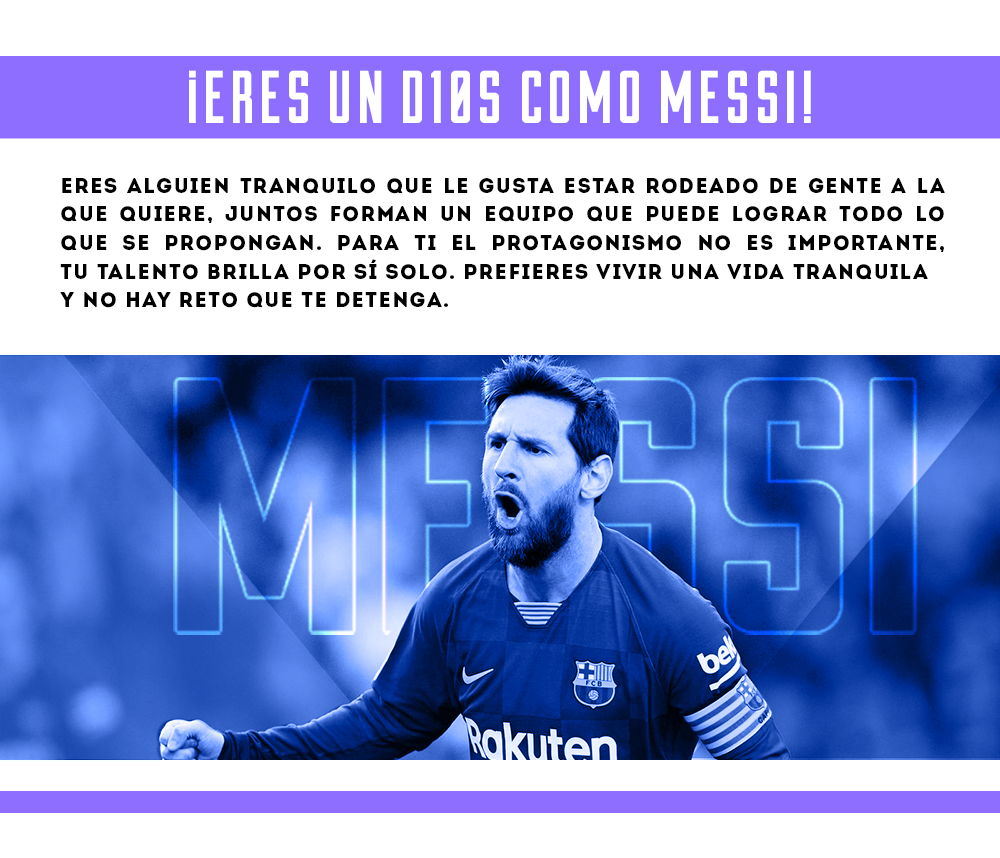
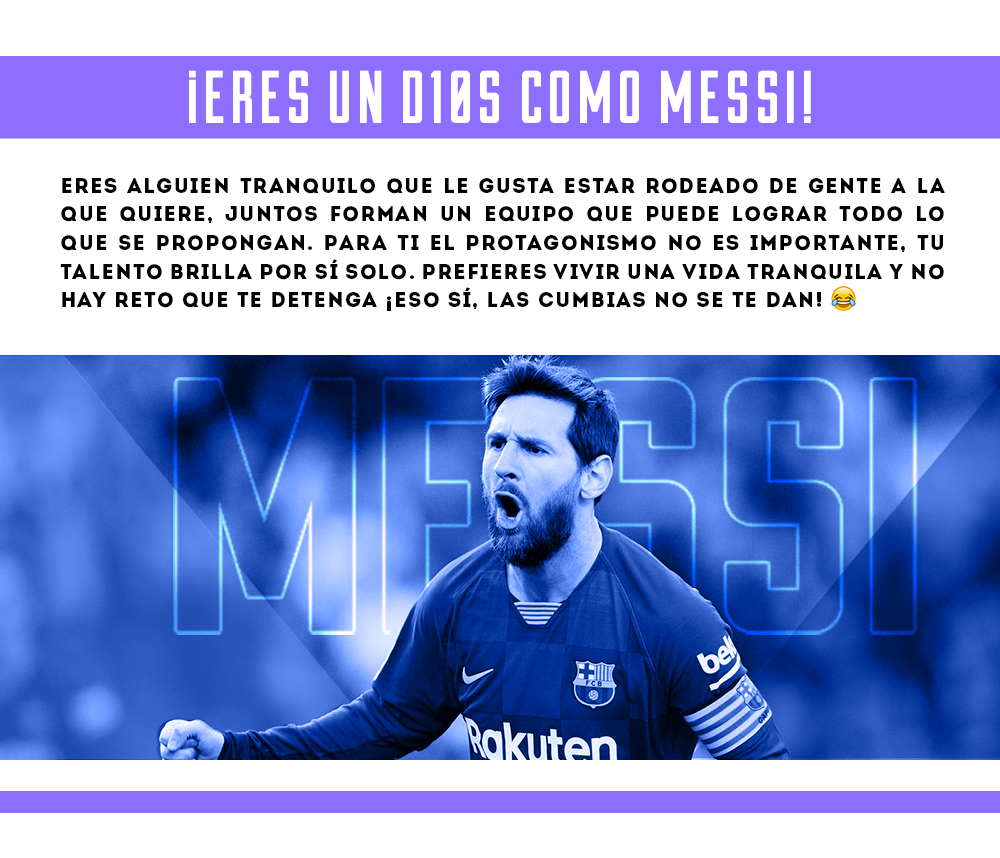
nuevas imágenes de resultado

Changed region(s): [[0.062, 0.2727, 0.961, 0.3636]]

diff --git a/js/indepth.js b/js/indepth.js
@@ -61,7 +61,7 @@ $("#indepth_boton_empezar").on("click",function(){
 				          "tipo": "true"
 				        },
 				        {
-				          "respuesta": "Más de 3",
+				          "respuesta": "3 o más",
 				          "tipo": "false"
 				        }
 				      ]
@@ -383,13 +383,13 @@ function finish_test(total){
 	$("#indepth_whatsapp").click(function(){
 		var text = "";
 		if (total == 0) {
-			text = encodeURIComponent("¡Soy un D10S como Messi!");
+			text = encodeURIComponent("¡Soy un D10S como Messi! ¿Y tú?");
 		} else if (total == 1) {
-			text = encodeURIComponent("¡Siuuuuu! Soy como 'El Comandante'!");
+			text = encodeURIComponent("¡Siuuuuu! Soy como 'El Comandante'! ¿Y tú?");
 		}
+
 		var url = encodeURIComponent("http://juanfutbol.com/indepth/xxx?m="+totalfb);
-		window.open("https://wa.me/?text="+url+" "+text+" ¿Y tú?");
-		//window.open("https://wa.me/?text=HOLA!");
+		window.open("https://wa.me/?text="+url+" "+text);
 	});
 }
 

diff --git a/metas.php b/metas.php
@@ -3,11 +3,11 @@
 		"Messi" => array(
 			"title" => "xxx",
 			"description" => "¡Eres un D10S como Messi!",
-			"image" => "images/metas/0.jpg" 
+			"image" => "images/metas/0.png" 
 		),
 		"Bicho" => array(
 			"title" => "xxx",
 			"description" => "¡Siuuuuu! ¡Eres como 'El Comandante'!",
-			"image" => "images/metas/1.jpg" 
+			"image" => "images/metas/1.png" 
 		)
 	);
